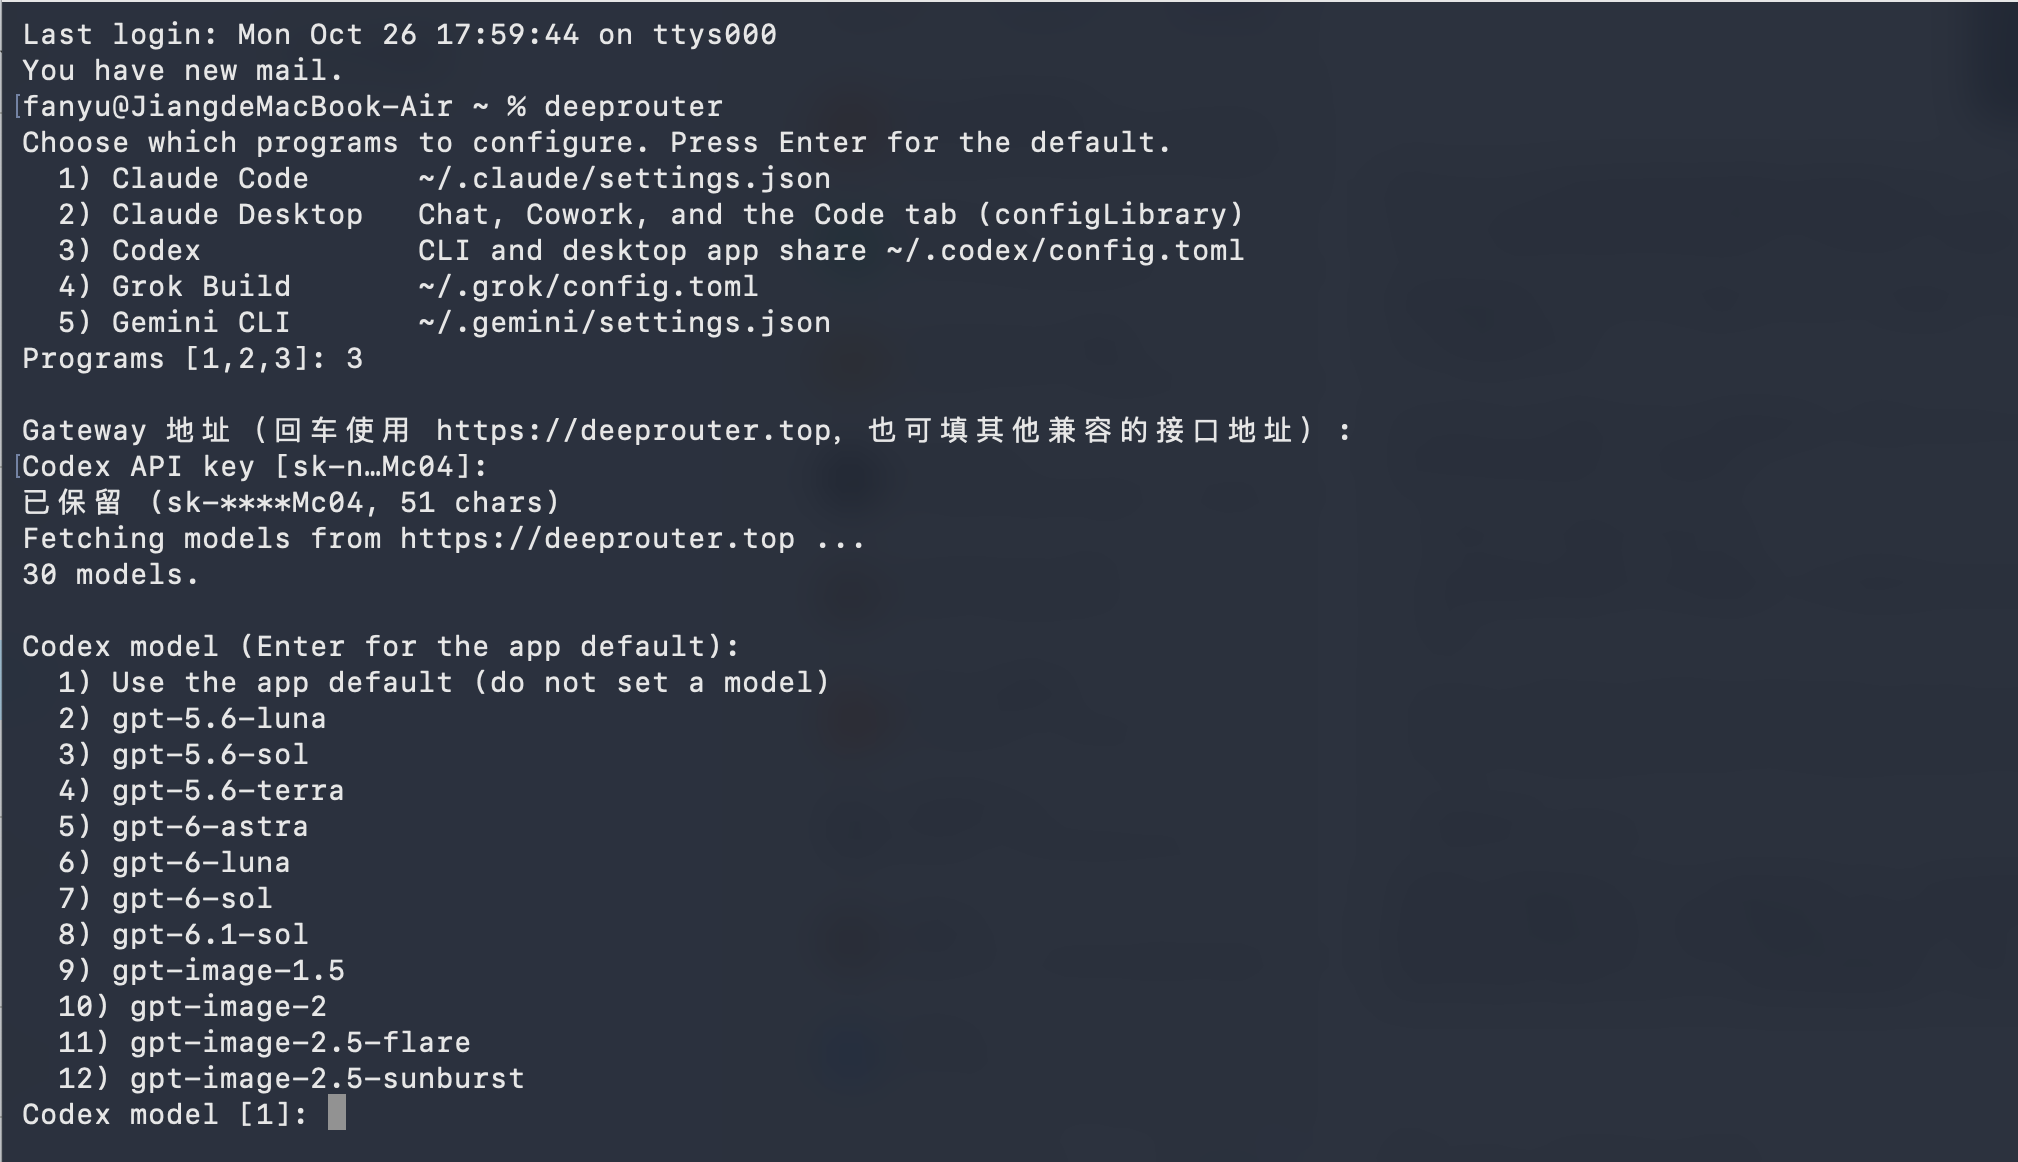
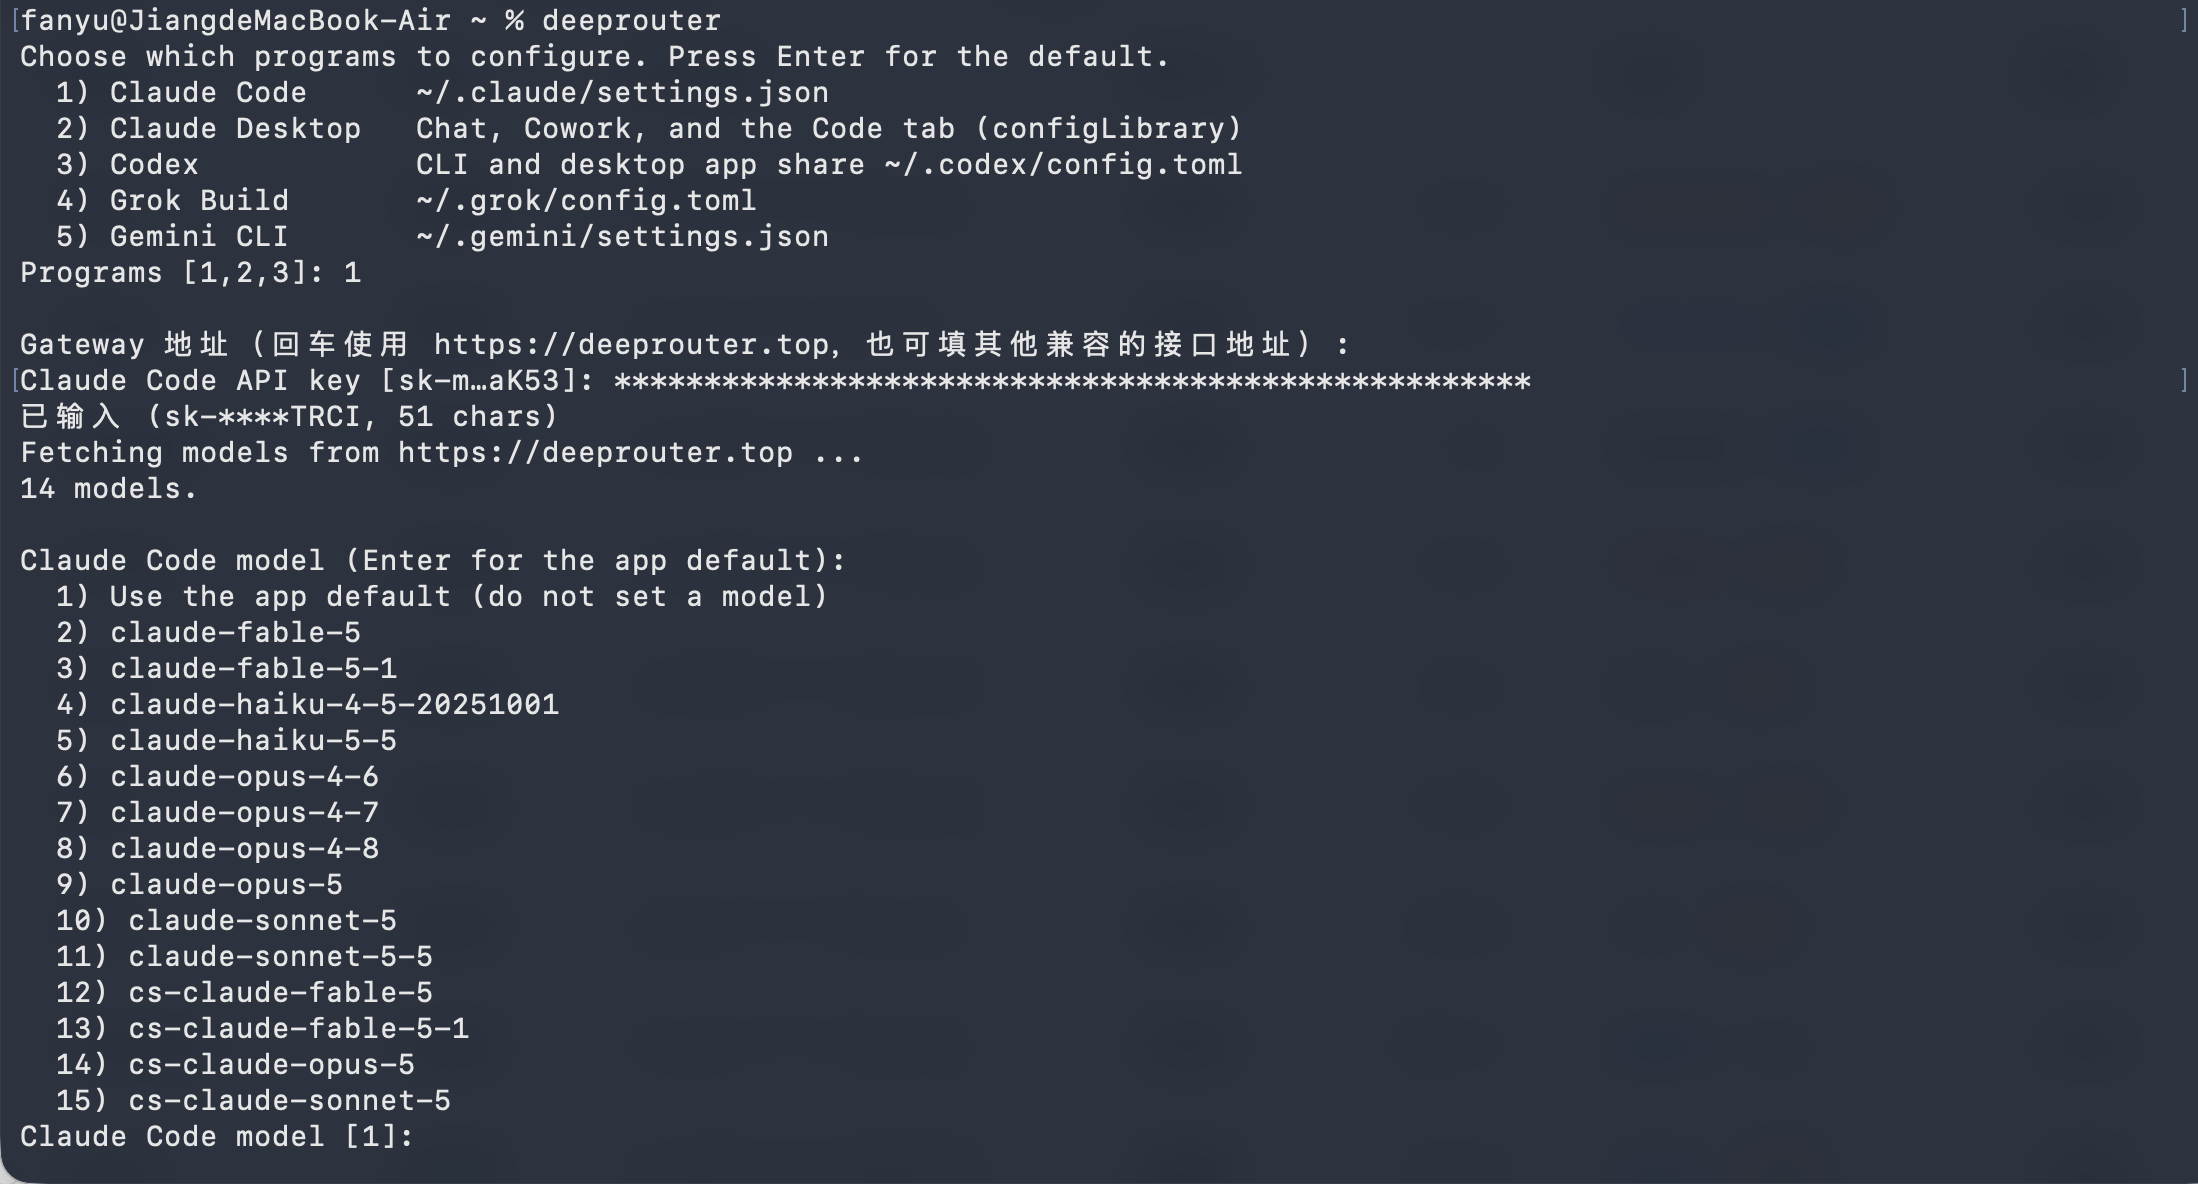
Use the newer setup screenshot as the only README image.
Replace docs/screenshot.png and drop the demo gif from the introduction.

Changed region(s): [[0.0, 0.0, 0.6868, 1.0]]

diff --git a/README.md b/README.md
@@ -4,10 +4,6 @@
 
 ![交互式配置：选择 Claude Code、Claude Desktop 和 Codex，输入掩码显示的 API key，分别选择 claude-opus-4-6 和 gpt-5.4，连通性测试通过](docs/screenshot.png)
 
-![deeprouter configuring Claude Code and Codex](docs/demo.gif)
-
-发布到 Product Hunt 和 Show HN 之前，把 `docs/demo.gif` 换成一段短录屏。
-
 ## 安装
 
 macOS 和 Linux：
